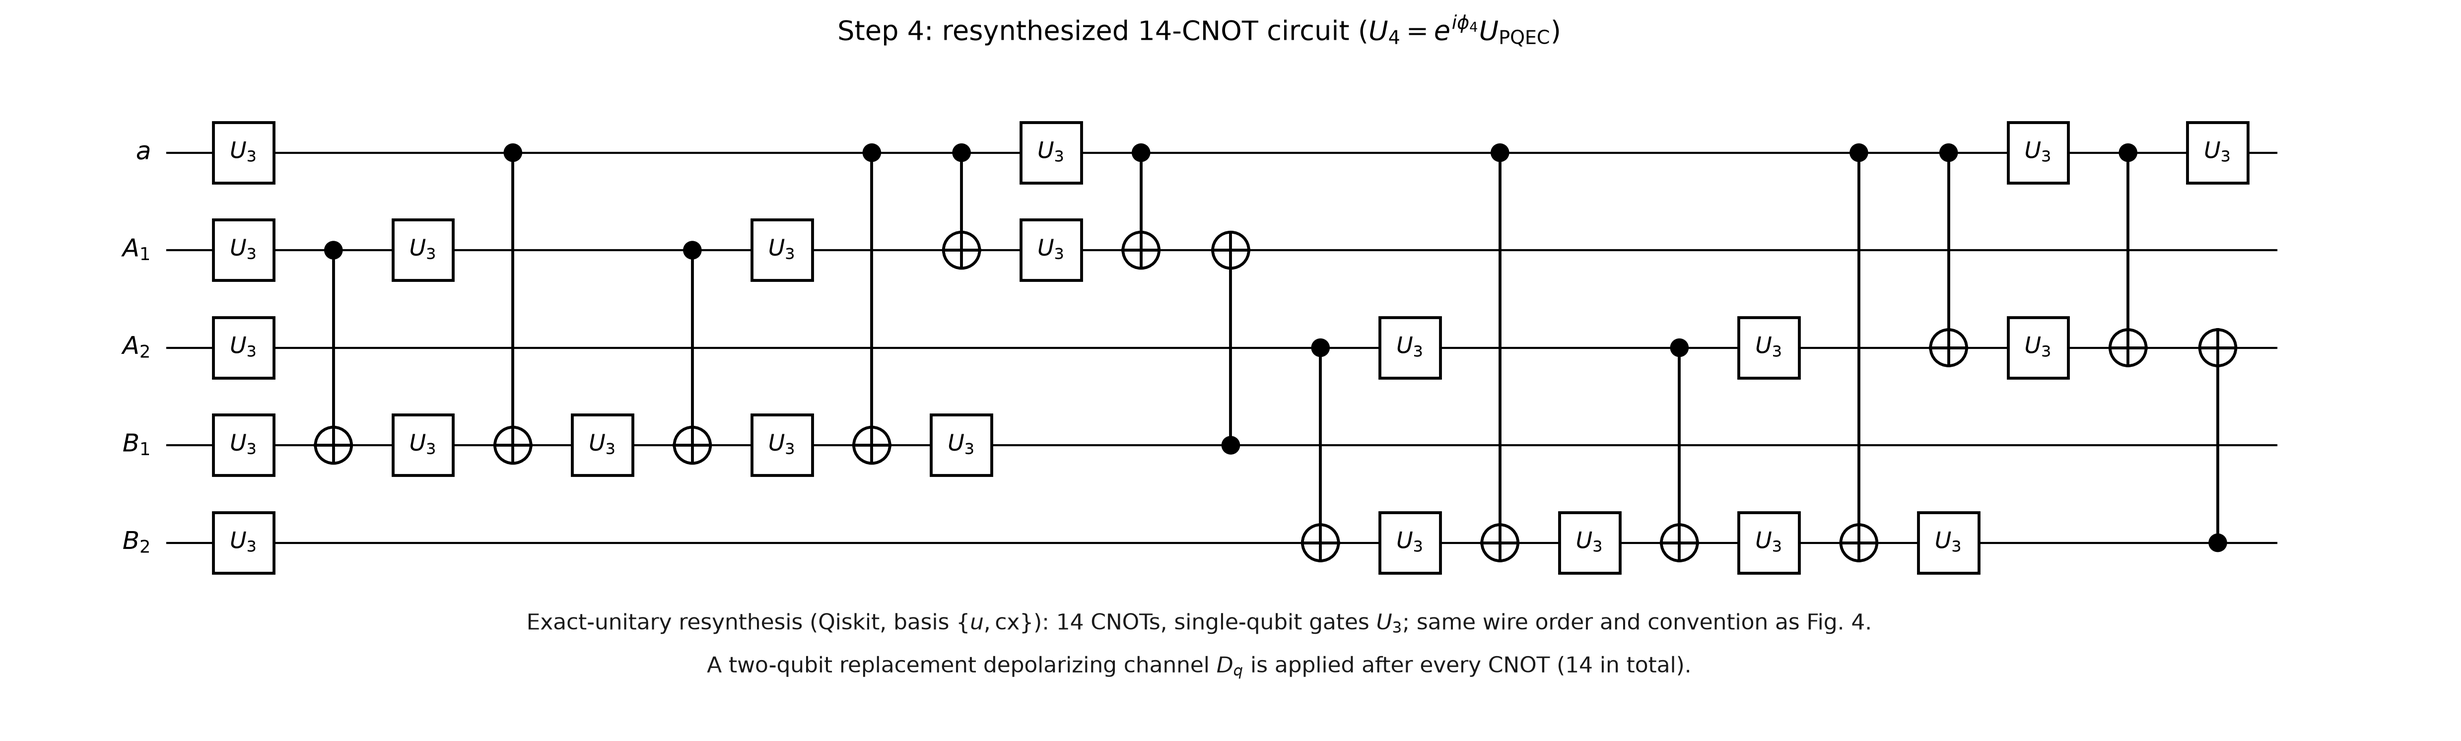
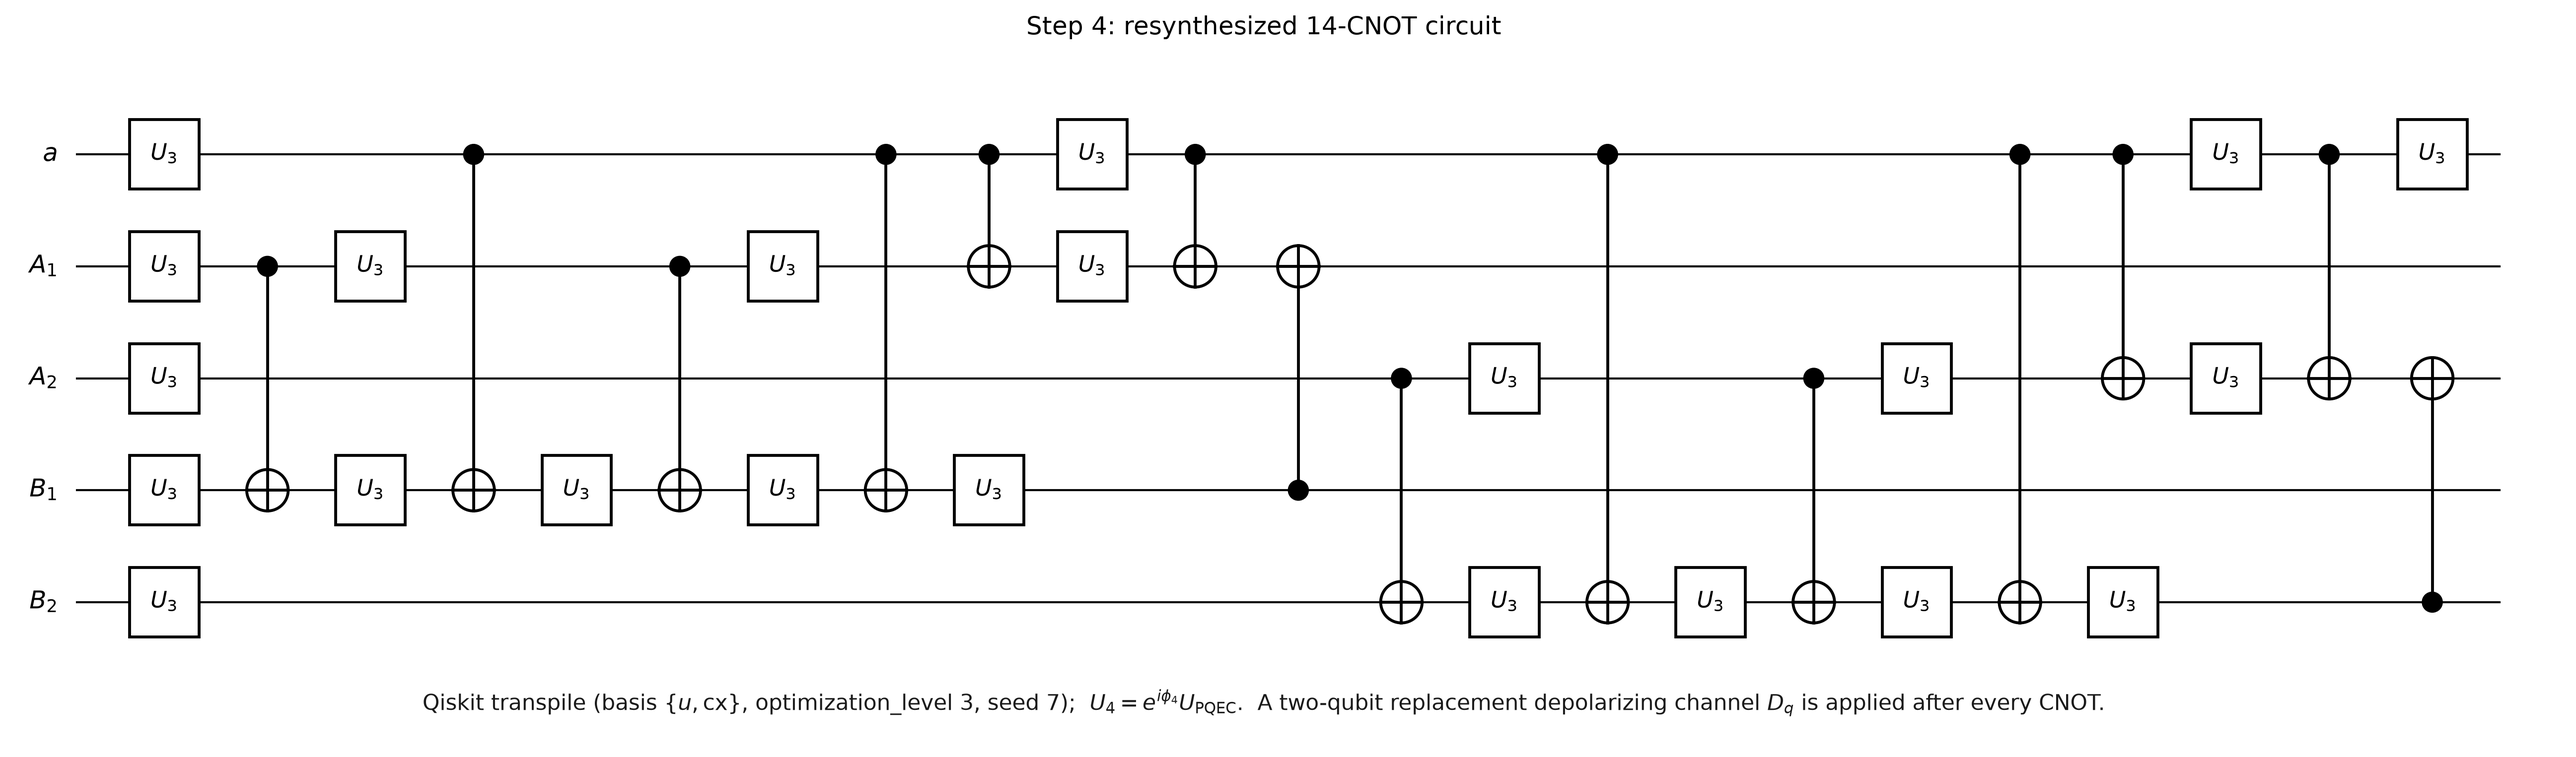
Add standalone Step 4 circuit + Step3-vs-Step4 threshold comparison for the calc note
New scripts/generate_step4_standalone.py renders two caption-free paper figures:
 * figures/step4_resynthesized_14cnot_circuit.png -- the resynthesized 14-CNOT PQEC
   circuit drawn directly from pqec_resynth_noise.GATES (Qiskit transpile, basis {u,cx},
   optimization_level 3, seed 7); 14 CNOTs, U3 single-qubit gates, wire order
   (a,A1,A2,B1,B2). Verified identical to the gadget unitary (HS overlap = 1, equal up to
   global phase). This regenerates the file in place with a clean standalone title/note
   (same circuit and gate sequence as before).
 * figures/step4_vs_step3_thresholds.png -- Step 3 (textbook 16-CNOT) vs Step 4
   (resynthesized 14-CNOT) operational-threshold comparison, using the supplied values
   verbatim (no recomputation): q_th^(3)=[0.032991..0.125715], q_th^(4)=[0.041263..0.178027].

White background, clean matplotlib style, tight bbox. No formula, threshold value, other
figure's data, code, or branch is changed.

diff --git a/scripts/generate_step4_standalone.py b/scripts/generate_step4_standalone.py
@@ -1,0 +1,166 @@
+"""
+Standalone Step 4 figures for the calculation note.
+===================================================
+
+(1) The resynthesized 14-CNOT PQEC circuit, rendered directly from the authoritative
+    gate list pqec_resynth_noise.GATES (Qiskit transpile, basis {u, cx},
+    optimization_level 3, seed_transpiler 7) -- so the drawing matches the simulated
+    circuit exactly (14 CNOTs; Hilbert-Schmidt overlap with U_PQEC = 1, i.e. equal up to
+    global phase).
+(2) A Step 3 vs Step 4 operational-threshold comparison plot, using supplied values
+    verbatim (no recomputation).
+
+Caption-free (small in-figure title only). White background, clean paper style.
+
+Outputs:
+  figures/step4_resynthesized_14cnot_circuit.png   (standalone circuit)
+  figures/step4_vs_step3_thresholds.png            (comparison graph)
+
+Run:  python scripts/generate_step4_standalone.py
+"""
+import os
+import sys
+import matplotlib
+matplotlib.use("Agg")
+import matplotlib.pyplot as plt
+from matplotlib.patches import Rectangle, Circle
+
+ROOT = os.path.dirname(os.path.dirname(os.path.abspath(__file__)))
+sys.path.insert(0, ROOT)
+
+from generate_paper_figures import (
+    _assign_columns, _y, WIRES5, DPI, COL_DX, BOX_W, BOX_H,
+    FS_GATE, FS_WIRE, FS_NOTE, LW,
+)
+import pqec_resynth_noise as r4
+
+FIG = os.path.join(ROOT, "figures")
+OUT_CIRCUIT = os.path.join(FIG, "step4_resynthesized_14cnot_circuit.png")
+OUT_GRAPH = os.path.join(FIG, "step4_vs_step3_thresholds.png")
+
+TITLE = "Step 4: resynthesized 14-CNOT circuit"
+NOTE = (r"Qiskit transpile (basis $\{u,\mathrm{cx}\}$, optimization_level 3, "
+        r"seed 7);  $U_4=e^{i\phi_4}U_{\mathrm{PQEC}}$.  A two-qubit replacement "
+        r"depolarizing channel $D_q$ is applied after every CNOT.")
+
+
+# ---------------------------------------------------------------------------
+# (1) circuit  (rendered from the actual GATES list)
+# ---------------------------------------------------------------------------
+def _circuit_items():
+    items, ncx, seq = [], 0, []
+    for name, wires, params in r4.GATES:
+        if name == "u":
+            items.append({"type": "box", "wire": int(wires[0]), "label": r"$U_3$"})
+        elif name == "cx":
+            c, t = int(wires[0]), int(wires[1])
+            items.append({"type": "cnot", "ctrl": c, "targ": t})
+            ncx += 1
+            seq.append((c, t))
+    return items, ncx, seq
+
+
+def render_circuit(items, col_scale=0.92):
+    nw = len(WIRES5)
+    ncols = _assign_columns(items, nw)
+    dx = COL_DX * col_scale
+    x0 = 0.0
+
+    def cx(col):
+        return x0 + (col + 0.5) * dx
+
+    xL, xR = -0.35 * dx, ncols * dx + 0.15 * dx
+    fig, ax = plt.subplots(figsize=(max(6.0, 1.1 * (xR - xL) + 1.6), 0.95 * nw + 1.6))
+    ax.set_axis_off()
+    ax.patch.set_visible(False)
+
+    for r in range(nw):
+        y = _y(r, nw)
+        ax.plot([xL, xR], [y, y], color="k", lw=1.0, zorder=1)
+        ax.text(xL - 0.18 * dx, y, WIRES5[r], ha="right", va="center", fontsize=FS_WIRE)
+
+    for it in items:
+        x = cx(it["col"])
+        if it["type"] == "box":
+            y = _y(it["wire"], nw)
+            ax.add_patch(Rectangle((x - BOX_W / 2, y - BOX_H / 2), BOX_W, BOX_H,
+                         facecolor="white", edgecolor="k", lw=LW, zorder=3))
+            ax.text(x, y, it["label"], ha="center", va="center", fontsize=FS_GATE, zorder=4)
+        else:
+            yc, yt = _y(it["ctrl"], nw), _y(it["targ"], nw)
+            ax.plot([x, x], [yc, yt], color="k", lw=LW, zorder=2)
+            ax.add_patch(Circle((x, yc), 0.085, color="k", zorder=4))
+            ax.add_patch(Circle((x, yt), 0.185, facecolor="white", edgecolor="k",
+                         lw=LW, zorder=4))
+            ax.plot([x - 0.185, x + 0.185], [yt, yt], color="k", lw=LW, zorder=5)
+            ax.plot([x, x], [yt - 0.185, yt + 0.185], color="k", lw=LW, zorder=5)
+
+    ax.set_xlim(xL - 0.6 * dx, xR + 0.6 * dx)
+    ax.set_ylim(_y(nw - 1, nw) - 1.25, _y(0, nw) + 1.25)
+    ax.set_aspect("equal")
+
+    # center title/note over the drawn content
+    fig.canvas.draw()
+    rr = fig.canvas.get_renderer()
+    xs = []
+    for art in list(ax.lines) + list(ax.patches) + list(ax.texts):
+        try:
+            bb = art.get_window_extent(renderer=rr)
+            if bb.width > 0:
+                xs += [bb.x0, bb.x1]
+        except Exception:
+            pass
+    inv = ax.transData.inverted()
+    xc = (inv.transform((min(xs), 0))[0] + inv.transform((max(xs), 0))[0]) / 2 if xs \
+        else (xL + xR) / 2
+
+    ax.text(xc, _y(0, nw) + 1.02, TITLE, ha="center", va="bottom", fontsize=FS_WIRE)
+    ax.text(xc, _y(nw - 1, nw) - 0.78, NOTE, ha="center", va="top", fontsize=FS_NOTE,
+            color="0.1")
+
+    fig.savefig(OUT_CIRCUIT, dpi=DPI, bbox_inches="tight", facecolor="white")
+    plt.close(fig)
+
+
+# ---------------------------------------------------------------------------
+# (2) threshold comparison  (supplied values, verbatim)
+# ---------------------------------------------------------------------------
+EPS = [0.10, 0.20, 0.30, 0.40, 0.50, 0.60]
+Q3 = [0.032991, 0.061194, 0.084499, 0.102949, 0.116657, 0.125715]
+Q4 = [0.041263, 0.078817, 0.111911, 0.139861, 0.162075, 0.178027]
+
+
+def render_graph():
+    fig, ax = plt.subplots(figsize=(6.4, 4.6), dpi=DPI)
+    ax.plot(EPS, Q3, "-^", color="C2", lw=1.9, ms=7, label="Step 3: textbook 16-CNOT")
+    ax.plot(EPS, Q4, "-o", color="C0", lw=1.9, ms=7, label="Step 4: resynthesized 14-CNOT")
+    ax.set_xlabel(r"input noise  $\varepsilon$", fontsize=13)
+    ax.set_ylabel(r"CNOT-noise threshold  $q_{\mathrm{th}}$", fontsize=13)
+    ax.set_title("Operational threshold comparison", fontsize=14)
+    ax.grid(True, ls=":", lw=0.6, color="0.7")
+    ax.legend(frameon=False, fontsize=11, loc="upper left")
+    ax.set_xlim(0.08, 0.62)
+    ax.set_ylim(0.0, 0.19)
+    fig.savefig(OUT_GRAPH, dpi=DPI, bbox_inches="tight", facecolor="white")
+    plt.close(fig)
+
+
+def main():
+    items, ncx, seq = _circuit_items()
+    assert ncx == 14, f"Step 4 must have 14 CNOTs, got {ncx}"
+    render_circuit(items)
+    render_graph()
+
+    from PIL import Image
+    wc, hc = Image.open(OUT_CIRCUIT).size
+    wg, hg = Image.open(OUT_GRAPH).size
+    print(f"wrote {os.path.relpath(OUT_CIRCUIT, ROOT)}  ({wc}x{hc}px, {DPI} dpi)")
+    print(f"wrote {os.path.relpath(OUT_GRAPH, ROOT)}  ({wg}x{hg}px, {DPI} dpi)")
+    print(f"  circuit CNOT count = {ncx} (expect 14); overlap with U = {r4.verify_unitary():.12f}")
+    print(f"  circuit CNOT sequence = {seq}")
+    print(f"  graph: Step 3 = {Q3}")
+    print(f"  graph: Step 4 = {Q4}")
+
+
+if __name__ == "__main__":
+    main()
